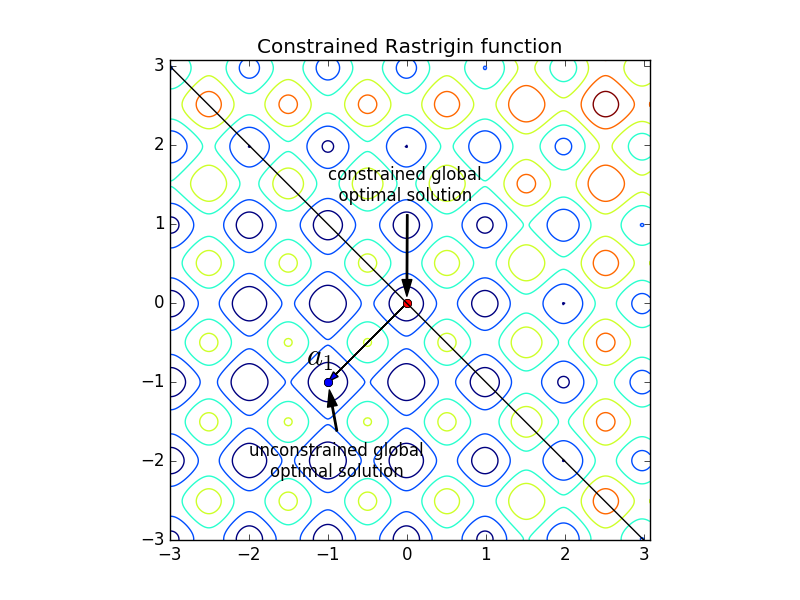
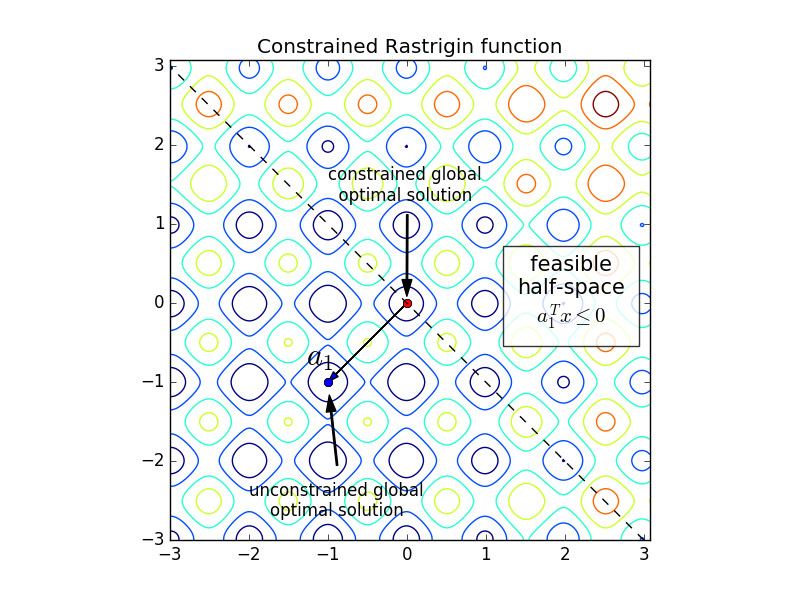
Updated constrained suite doc

Changed region(s): [[0.625, 0.39, 0.8125, 0.6], [0.3125, 0.66, 0.5312, 0.87]]

diff --git a/docs/bbob-constr-lin/functions/source/index.rst b/docs/bbob-constr-lin/functions/source/index.rst
@@ -97,7 +97,7 @@ The set of all feasible solutions is called the *feasible set*, denoted here by 
 solution* is a point :math:`x^{\textrm{opt}} \in \cal F` such that :math:`f(x^{\textrm{opt}}) \leq f(x)` for all :math:`x \in \cal F`. 
 We also make distinction between *global optimal solution* and *local optimal solution*.
 The latter is a point :math:`x^{\textrm{opt}} \in \cal F` such that :math:`f(x^{\textrm{opt}}) \leq f(x)` for all :math:`x \in \cal N \cap \cal F`, 
-where :math:`\cal N` is a neighborhood of :math:`x^{\textrm{opt}}`, while the former consider the entire set :math:`\cal F` in the definition. 
+where :math:`\cal N` is a neighborhood of :math:`x^{\textrm{opt}}`, while the former considers the entire set :math:`\cal F` in the definition. 
 In this documentation, we always refer the term "optimal solution" to "global optimal solution" and vice-versa. The latter term is used
 in contexts where local optimal solutions are also in discussion.
 
@@ -148,9 +148,9 @@ Terminology
   We define *runtime*, or *run-length* as the *number of
   evaluations* conducted on a given problem until a prescribed target value is
   hit, also referred to as the sum of the number of *objective function* evaluations 
-  or |f|-evaluations and the number of *constraint* evaluations 
-  or |g|-evaluations. We emphasize here that one single *constraint evaluation* in `Coco` is equivalent
-  to one call to the routine that evaluates *all* the constraints at once, 
+  and the number of *constraint* evaluations. We emphasize here that one single 
+  *constraint evaluation* in `Coco` is equivalent to one call to the routine that 
+  evaluates *all* the constraints at once, 
   |coco_evaluate_constraint|_. Runtime is our central performance measure.
 
 .. _subsec-instances-and-problems:
@@ -179,7 +179,7 @@ Instances and problems
 
   .. math::
 
-    f(n, i, j)(\x) \quad \textrm{subject to}\quad g(n, i, k, j)(\x) \leq 0, \quad k = 1, \ldots, l.
+    f(n, i, j)(x) \quad \textrm{subject to}\quad g(n, i, k, j)(x) \leq 0, \quad k = 1, \ldots, l.
 
   The rationale behind the use of parameter |k| is the following. Suppose that a constrained function
   is composed of the objective function and two linear constraints :math:`g_1(x) \equiv a_i^T x` and 
@@ -268,7 +268,7 @@ How the constraints are built
 -----------------------------
 
 The linear constraints :math:`g_i` are defined by their gradients :math:`a_i` which are randomly generated using a normal distribution.
-In order to make sure that the resulting feasible set is not empty, the following steps are considered in the generation process.
+In order to ensure that the resulting feasible set contains points other than the origin, the following steps are considered in the generation process.
   
 1) Sample :math:`l` vectors :math:`a_1`, :math:`a_2`, :math:`\ldots`, :math:`a_l`.
 
@@ -307,7 +307,7 @@ A point that satisfies the KKT conditions is called a *KKT point*. Note that a K
 
 **Generic algorithm for defining the constrained functions**
 
-Initially, we choose the origin to be the optimal solution of the constrained functions. Then, we pick up a ``bbob`` function to be the objective function and we build the linear constraints in such a way that the origin becomes a KKT point and also the optimal solution to the final constrained function. Once the constrained function is well defined, we apply a translation to it (objective function + constraints) in order to move the optimal solution away from the origin. The steps for constructing the constrained functions can be summarized in an algorithmic way as it follows. Assume for now that the chosen ``bbob`` function does not contain any nonlinear transformation in its definition.
+Initially, we choose the origin to be the optimal solution of the constrained functions. Then, we pick up a ``bbob`` function to be the objective function and we build the linear constraints in such a way that the origin becomes a KKT point and also the optimal solution to the final constrained function. The first steps for constructing the constrained functions can be summarized in an algorithmic way as it follows. Assume for now that the chosen ``bbob`` function does not contain any nonlinear transformation in its definition.
 
 1. Pick up a ``bbob`` function :math:`f` to be the objective function.
 
@@ -317,11 +317,25 @@ Initially, we choose the origin to be the optimal solution of the constrained fu
 
 4. Generate the other constraints randomly using a normal distribution while making sure that :math:`p` remais feasible for each one.
 
-The point :math:`p=\nabla f(\mathbf{0})` defined in Step 2 is used in the definition of the first linear constraint in Step 3 and also to guarantee nonemptiness of the feasible set in Step 4 (see Subsection :ref:`subsec-how-cons-are-built`). By setting the Lagrange multipliers :math:`\mu_1 = 1` and :math:`\mu_i = 0` for :math:`i=2,\ldots,l`, we have that all the KKT conditions are satisfied at the origin, which makes it a KKT point.
+The point :math:`p=\nabla f(\mathbf{0})` defined in Step 2 is used in the definition of the first linear constraint in Step 3 and also to guarantee that the feasible set has more points than just the origin in Step 4 (see Subsection :ref:`subsec-how-cons-are-built`). By setting the Lagrange multipliers :math:`\mu_1 = 1` and :math:`\mu_i = 0` for :math:`i=2,\ldots,l`, we have that all the KKT conditions are satisfied at the origin, which makes it a KKT point. We give below an example of the definition of a constrained function with two figures. The figure on the left shows the Steps 1 to 3 while the one on the right shows the final constrained function. The hashed lines form the boundary of the feasible set :math:`\cal F` in each figure. Note that the point :math:`p` remains feasible after the addition of other linear constraintes in the figure on the right.
 
-7 out of the 8 objective functions - all except the Rastrigin function, which is handled differently - composing the constrained functions in ``bbob-constr-lin`` are convex or pseudoconvex - without considering the nonlinear transformations -, which together with the fact that the linear constraints are also quasiconvex implies that a KKT point is also a global optimal solution to these constrained functions.
+.. |logo1| image:: _figs/defining_a_constrained_function.png
+   :width: 100%
+   :align: middle
 
-If the ``bbob`` function chosen in Step 2 includes nonlinear transformations, the algorithm above cannot ensure that the origin is the optimal solution due to the lack of pseudoconvexity of the objective function, which was used to guarantee the sufficiency of the KKT conditions for optimality. To solve this issue, we add a new step between Step 1 and Step 2 where we remove the nonlinear transformations applied to the search space in the ``bbob`` function. The nonlinear transformations are applied to the whole constrained function (:math:`f` and :math:`g_i`) only after the constraints have been built and the origin has become the optimal solution. As we show in the Subsection :ref:`subsec-applying-nonlinear-transformations`, the application of the `Coco` nonlinear transformations to a constrained function whose optimal solution is at the origin does not change its optimal solution. 
+.. _fig-res-cons-func:
+
+.. |logo2| image:: _figs/final_constrained_function.png
+   :width: 100%
+   :align: middle
+
++---------+---------+
+| |logo1| | |logo2| |
++---------+---------+
+
+7 out of the 8 objective functions - all except the Rastrigin function, which is handled differently - composing the constrained functions in ``bbob-constr-lin`` are convex or pseudoconvex - without considering the nonlinear transformations -, which together with the fact that every linear constraint is also quasiconvex implies that a KKT point is also a global optimal solution to these constrained functions.
+
+If the ``bbob`` function chosen in Step 2 includes nonlinear transformations, the algorithm above cannot ensure that the origin is the optimal solution due to the lack of pseudoconvexity of the objective function, which was used to guarantee the sufficiency of the KKT conditions for optimality. To solve this issue, we add a new step between Step 1 and Step 2 where we remove the nonlinear transformations applied to the search space in the ``bbob`` function. The nonlinear transformations are applied to the whole constrained function (:math:`f` and :math:`g_i`) only after the constraints have been built and the origin has been defined as the optimal solution. As we show in the Subsection :ref:`subsec-applying-nonlinear-transformations`, the application of the `Coco` nonlinear transformations to a constrained function whose optimal solution is at the origin does not change its optimal solution. 
 
 The final generic algorithm for defining the constrained functions is given below. As it can be seen, we also added a new step to move the optimal solution away from the origin in the end.
 
@@ -369,7 +383,7 @@ where :math:`v = T_{\textrm{asy}}^{0.2}(T_{\textrm{osz}}(x - x^{\textrm{opt}}))`
 
 Differently from the other 7 constrained functions, :eq:`rastrigin2` does not have a pseudoconvex objective function. Therefore, we define the optimal solution in this case in a different manner. We first set the constant vector :math:`x^{\textrm{shift}}=(-1,\ldots,-1)^T`. We then obtain a Rastrigin function whose unconstrained global optimal solution is at :math:`x^{\textrm{shift}}=(-1,\ldots,-1)^T`. By defintion, such a function contains many local optimal solution which are (approximately) located on the :math:`n`-dimensional integer lattice :math:`\mathbb{Z}^n` translated by :math:`-x^{\textrm{shift}}`.
 
-Due to the translation of the objective function by :math:`-x^{\textrm{shift}}`, the origin is no more the unconstrained global optimal solution, but an unconstrained local optimal solution. In order to make it the constrained global optimal solution, we add a linear constraint function :math:`g_1(x) \equiv a_1^T x` whose gradient is given by :math:`a_1 = x^{\textrm{shift}}`. :numref:`fig-cons-rastrigin` shows a 2-dimensional example of the resulting function. As it can be seen, all the feasible local optimal solutions in the integer lattice, situated in the upper right part of of the graph, have larger function values than the origin's due to the fact that they are farther than the origin with respect to the unconstrained global optimal solution, :math:`x^{\textrm{shift}}=(-1,\ldots,-1)^T`, which increases the value of the term :math:`\|x-x^{\textrm{shift}}\|^2` in the function. 
+Due to the translation of the objective function by :math:`-x^{\textrm{shift}}`, the origin is no more the unconstrained global optimal solution, but an unconstrained local optimal solution. In order to make it the constrained global optimal solution, we add a linear constraint function :math:`g_1(x) \equiv a_1^T x` whose gradient is given by :math:`a_1 = x^{\textrm{shift}}`. :numref:`fig-cons-rastrigin` shows a 2-dimensional example of the resulting function. As it can be seen, all the constrained local optimal solutions in the integer lattice, situated in the upper right part of of the graph, have function values larger than the origin's due to the fact that they are farther with respect to the unconstrained global optimal solution, :math:`x^{\textrm{shift}}=(-1,\ldots,-1)^T`, which increases the value of the term :math:`\|x-x^{\textrm{shift}}\|^2` in the function and thus the function value itself.
 
 .. _fig-cons-rastrigin:
 
@@ -377,9 +391,9 @@ Due to the translation of the objective function by :math:`-x^{\textrm{shift}}`,
    :scale: 80
    :align: center
 
-   Construction of the constrained Rastrigin function.
+   Constrained Rastrigin function in :eq:`rastrigin2` with one single linear constraint :math:`g_1(x)\equiv a_1^T x \leq 0`, where :math:`a_1=x_{\textrm{shift}}=(-1,\ldots,-1)^T`.
 
-Next, all the other linear constraints are randomly generated while care is taken to keep the point :math:`p=-a_1=(1,\ldots,1)^T` feasible. We then apply the nonlinear transformations :math:`T_{\textrm{osz}}` and :math:`T_{\textrm{asy}}^{0.2}` to the constrained function to make it less regular. Finally, we choose a random vector :math:`x^{\textrm{opt}}` to be the optimal solution and translate the constrained function by :math:`-x^{\textrm{opt}}`.
+Next, all the other linear constraints are randomly generated while care is taken to keep the point :math:`p=-a_1=(1,\ldots,1)^T` feasible in order to guarantee at least a feasible half-line defined by :math:`\{\alpha p\,|\,\alpha\geq0\}`. We then apply the nonlinear transformations :math:`T_{\textrm{osz}}` and :math:`T_{\textrm{asy}}^{0.2}` to the constrained function to make it less regular. Finally, we choose a random vector :math:`x^{\textrm{opt}}` to be the optimal solution and translate the constrained function by :math:`-x^{\textrm{opt}}`.
 
 .. _subsec-applying-nonlinear-transformations:
 
@@ -607,6 +621,8 @@ where :math:`v = T_{\textrm{asy}}^{0.2}\,(T_{\textrm{osz}}(x-x^{\textrm{opt}}))`
 * Highly multimodal function with a comparatively regular structure for the placement of the local optimal solutions. The transformations :math:`T_{\textrm{asy}}` and :math:`T_{\textrm{osz}}` alleviate the symmetry and regularity of the original Rastrigin function.
 
 * Roughly :math:`10^n` local optimal solutions, conditioning is about :math:`10^6`.
+
+* As explained in the previous section, :math:`x^{\textrm{shift}}=(-1,\ldots,-1)^T` for this constrained function.
 
 .. _`Coco framework`: https://github.com/numbbo/coco
 
